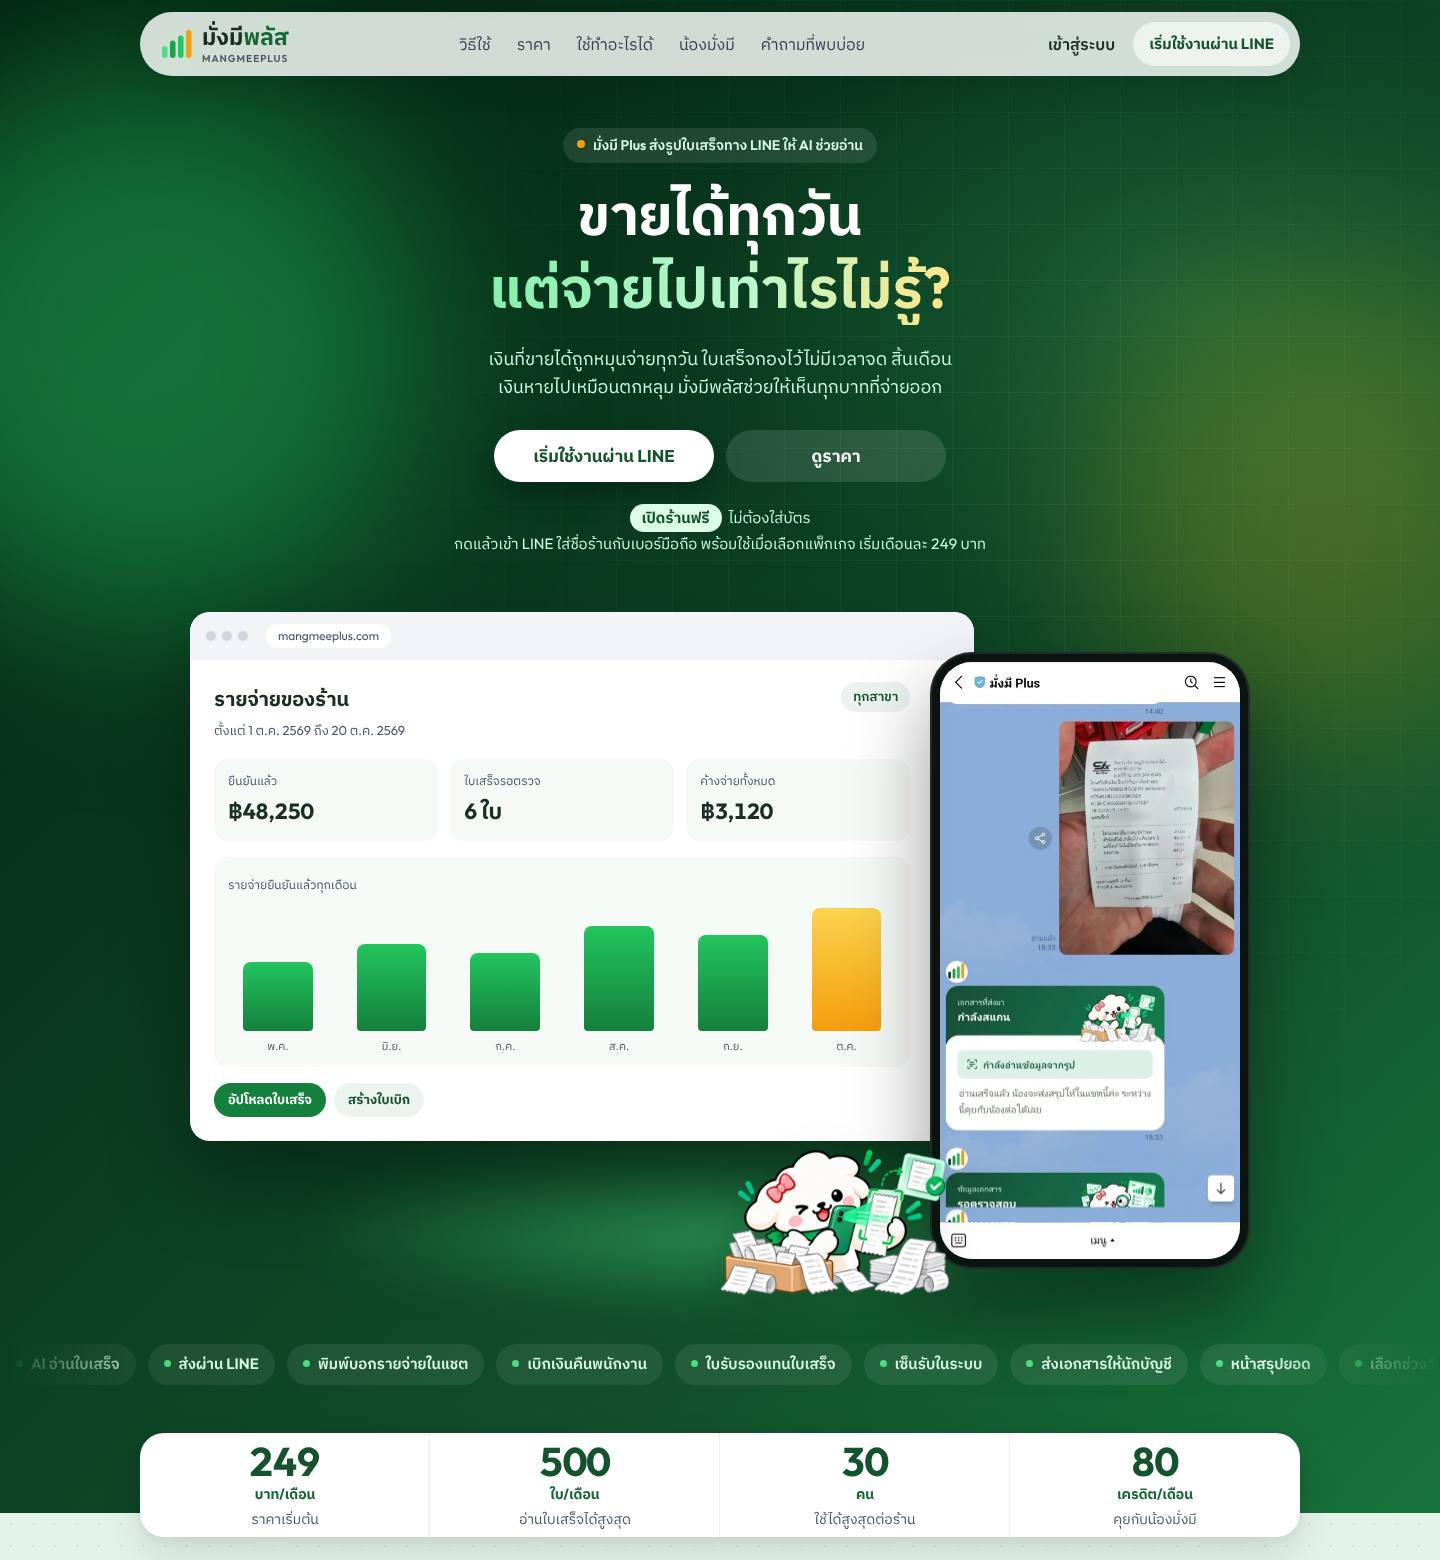
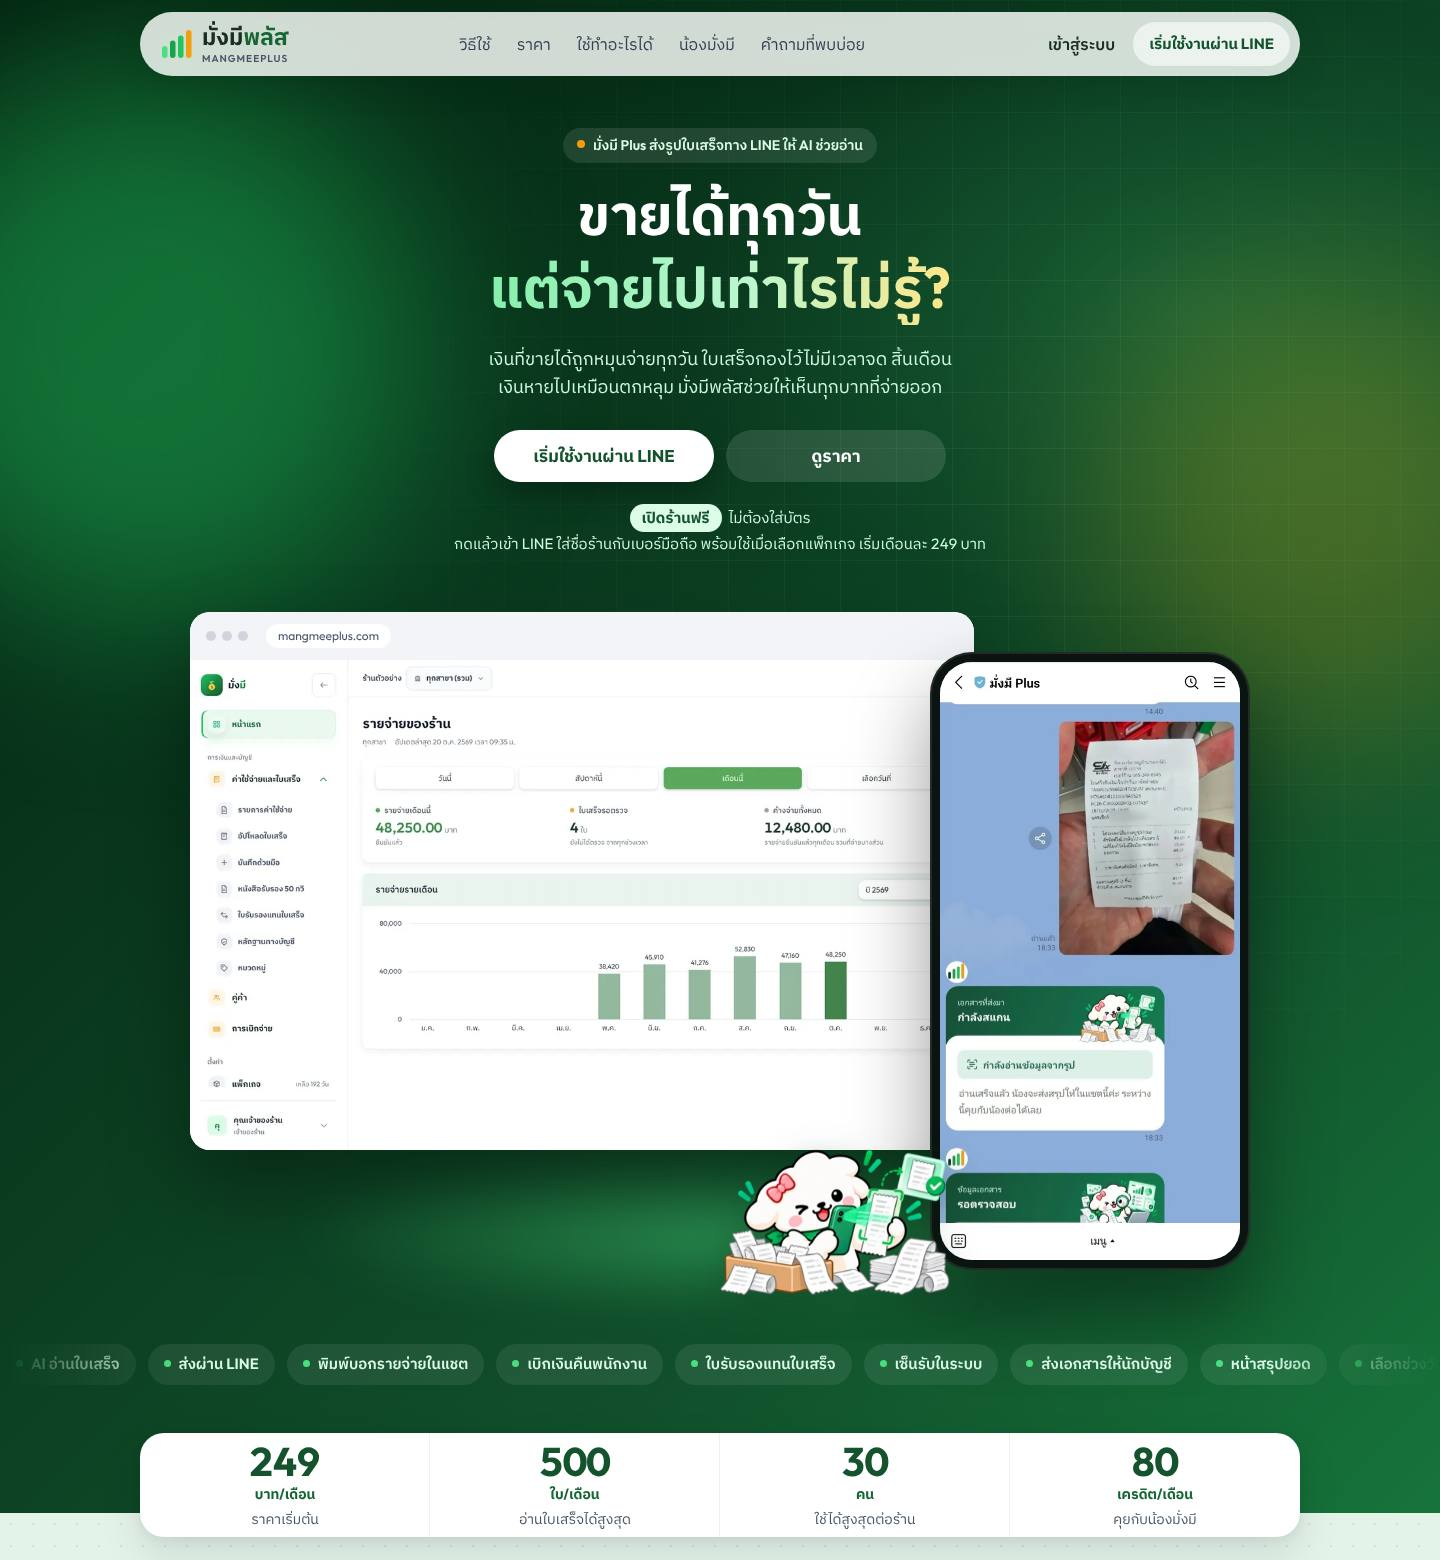
docs: v3 website uses the real web dashboard, seamless real-screen montages and full-scale test results
The hero browser frame shows the current owner home rendered from the
real web code with sample data. The LINE phone replays four real chats
joined at pixel-matched rows with no repeated or cut messages, and the
close panel scrolls the real เปิดร้านใหม่ page. Adds ใบสำคัญจ่าย, points
the team LINE to @mangmeeplus, and replaces the test cards with
audited totals: 2,624 graded questions, 60 real documents, 5,000+
automated tests and 48 attack checks.

Claude-Session: https://claude.ai/code/session_01J7ScAcuHmAWY52w61WzGcF

diff --git a/docs/agent-memory/mangmee-main-website-prototype-2026-10-20.md b/docs/agent-memory/mangmee-main-website-prototype-2026-10-20.md
@@ -336,3 +336,14 @@ Decisions:
 - Documents: a background helper rendered the five documents with the real renderers and fictional data (scratchpad/doc-samples/render.ts; `pnpm install --frozen-lockfile --filter @watchdog-bms/api...`, repo tree unchanged; Noto Sans Thai fetched from npm for rasterising only). Shown as a tilted paper gallery in the dark section; package labels: ใบเบิก/ใบรับรองแทนใบเสร็จ all packages, 50 ทวิ/ภ.ง.ด.3/ภ.ง.ด.53 ธุรกิจ.
 - build_pricing.py no longer depends on the removed price-check paragraph.
 Verification: Chromium 1440/390 no overflow (home 8122 / 14023; pricing 3103 / 5429); scroll test 0 transparent sections; none of "ภาพจำลอง/ข้อมูลสมมติ/ตรวจราคาก่อนเผยแพร่/app.mangmeeplus" left in Main or Pricing; JSON-LD parses; FAQ parity kept; canvas version 25 (the version counter had moved from 22 to 25 between publishes; publish was accepted without conflict).
+
+## Revision 3o — real web screenshot, seamless montages, payment voucher, full test scale
+
+Status: Complete — prototype only.
+Trigger: Owner sent 5 more real screenshots (เปิดร้านใหม่ page ×2, TrueMoney slip chat ×2, small-talk chat) and asked: real web screenshot instead of the illustrated dashboard; add ใบสำคัญจ่าย; are the AI test numbers really that small / that method; smooth screen montage without overlap or cut-offs. Mid-turn: team LINE is https://line.me/R/ti/p/@695ultfm (@mangmeeplus).
+Decisions:
+- Dashboard: a helper rendered the current owner home (DashboardPages + real workspace layout) from apps/web/src with esbuild + the repo Tailwind/globals.css, mocked API data (ร้านตัวอย่าง), 499-package menu permissions; `pnpm install --frozen-lockfile --filter "@watchdog-bms/web..."` only; repo tree unchanged. Note: the current home has no อัปโหลดใบเสร็จ/สร้างใบเบิก buttons (sidebar only) and shows the เดือนนี้ default view.
+- Montage: scratchpad/reel/build2.py joins same-chat pairs at the pixel-matched row (5→4 offset 1000, join row 1314, mean diff 0.02; 9→10 offset 832, join row 1316, 0.04), stacks separate chats at message gaps, paints out LINE's ↓ button and scroll thumb, keeps the cashier blur. The round-14 strip had duplicated the scanning/review card header at the 5/4 seam — fixed. Signup page 7→8 joined on the unique "เซลล์ของมั่งมี" row (offset 1746); the first attempt matched look-alike option boxes and dropped two options — caught by viewing the strip.
+- A dashboard-markup cut left one stray </div> and broke the layout (mobile scrollWidth 482); caught by section measurements and the tag-balance check; fixed.
+- Test numbers from a read-only audit of docs/specs/research/agent-memory, ci.yml and spec counts: advisor 2,624 code-graded question-runs (223×10 + 71×2 + 183 S1 + 69 S2a); real documents sent to the model 60 (38 UAT receipts 2026-08-28, totals 30/38 with some wrong labels; 15 customer images 2026-09-08, 14/14 printed-total images = 13 documents; 7 public docs 2026-09-19); 5,273 test declarations around AI/documents, run by ci.yml on every PR into main/develop (about 12 PostgreSQL AI specs only in manual extended-tests); 48 frozen attack cases are deterministic rule checks in CI, not model tests; real-model scope refusals 40/40 + 12/12. Not claimed: population accuracy, production/UAT accuracy, October "independent exam" results (untracked), model-tested prompt injection.
+Verification: Chromium 1440/390 no overflow (home 8496 / 14873; pricing 3103 / 5429); tags balanced; scroll test 0 transparent sections; no lin.ee/6Sc38L6 or simulated-data captions left; pipeline r13 → r14 → r14_docs → faq → r15 reproduces Main byte-for-byte; canvas version 26.

diff --git a/docs/prototypes/mangmee-main-website/v3/README.md b/docs/prototypes/mangmee-main-website/v3/README.md
@@ -165,6 +165,14 @@
 - เข้าสู่ระบบใช้ mangmeeplus.com/login
 - เอาออก: ป้ายภาพจำลอง ข้อมูลสมมติ ป้ายตรวจราคา และบรรทัดข้อความเสียง/กลุ่ม LINE
 
+### รอบ 15: หน้าเว็บจริง ตัดต่อหน้าจอให้เนียน ผลทดสอบเต็ม
+
+- หน้าเว็บในภาพแรกเป็นหน้าระบบจริง (รายจ่ายของร้าน) ใส่ข้อมูลตัวอย่าง
+- ตัดต่อแชต LINE จริงใหม่ 4 เรื่องต่อกันแบบไม่ซ้ำไม่ขาด และเพิ่มหน้าเปิดร้านจริงที่กล่องปิดท้าย
+- เพิ่มใบสำคัญจ่ายในเอกสารที่ออกจากระบบ
+- LINE ทีมงานเป็น @mangmeeplus
+- ผลทดสอบเป็นตัวเลขเต็ม: ถามน้องมั่งมี 2,624 ครั้ง, เอกสารจริง 60 รูป, ชุดทดสอบอัตโนมัติ 5,000+, ทดสอบโจมตี 48 แบบ
+
 ## เรื่องที่รอคุณตัดสินใจ
 
 1. ~~ลิงก์เข้าสู่ระบบ~~ ตัดสินแล้ว: ใช้ `mangmeeplus.com/login`
